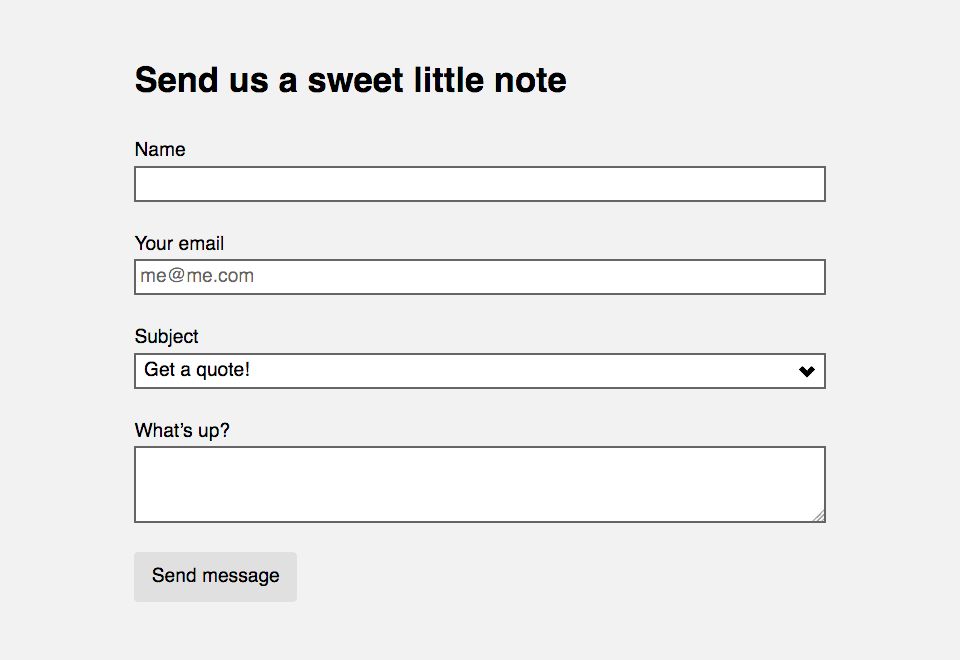
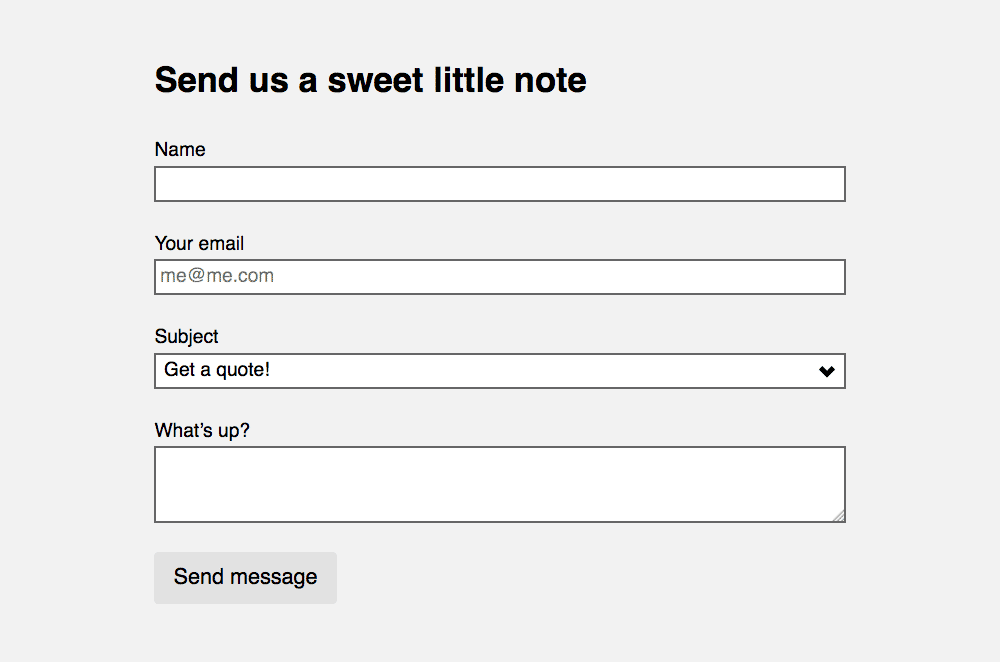
Update the contact form lesson

diff --git a/contact-form.md b/contact-form.md
@@ -3,6 +3,9 @@ layout: lesson
 title: "Contact form"
 desc: "Create a functional website contact form using Formspree as the message sender."
 
+markbot_submit: true
+hide_show_for_marks: true
+
 extra_tutorials:
   - title: "Forms slide deck"
     url: "/courses/web-dev-2/forms/"
@@ -15,27 +18,24 @@ extra_tutorials:
 goal:
   image: goal.png
   before: |
-    We’re going to look at how to make a function contact form. With only HTML, and no backend server, it would be impossible to actually send messages—but there are some services that’ll help us out. We’ll use [Formspree](https://formspree.io/) to help make our contact form messages send.
+    We’re going to look at how to make a functional contact form. With only HTML, and no backend server, it would be impossible to actually send messages—but there are some services that’ll help us out. We’ll use [Formspree](https://formspree.io/) to help make our contact form messages send.
   notes:
     - label: "Type it, type it real good"
       text: "Remember the purpose of this lesson is to type the code out yourself—build up that muscle memory in your fingers!"
+
+fork:
+  url: "https://github.com/acgd-webdev-2/contact-form"
 
 steps:
   - title: "Project setup"
     before: |
       The form isn’t going to work at all without running on a web server—the quickest way to get the form onto a web server is to use GitHub.
-
-      ### [Fork this repo.](https://github.com/acgd-webdev-2/contact-form/fork)
-
-      **Make sure you clone it to your computer.**
     folders:
       - label: "contact-form"
         type: folder
       - label: "css"
         type: folder
         indent: 1
-      - label: "grid.css"
-        indent: 2
       - label: "main.css"
         indent: 2
       - label: "modules.css"
@@ -64,11 +64,11 @@ steps:
             <form>
               <div>
                 <label for="name">Name</label>
-                <input id="name">
+                <input id="name" required>
               </div>
               <div>
                 <label for="email">Your email</label>
-                <input id="email" type="email" placeholder="me@me.com">
+                <input id="email" type="email" placeholder="me@me.com" required>
               </div>
               <div>
                 <label for="subject">Subject</label>
@@ -80,7 +80,7 @@ steps:
               </div>
               <div>
                 <label for="details">What’s up?</label>
-                <textarea id="details"></textarea>
+                <textarea id="details" required></textarea>
               </div>
               <div>
                 <button type="submit">Send message</button>
@@ -109,7 +109,7 @@ steps:
         text: |
           The `placeholder=""` attribute allows us to put an example into the `<input>` field.
 
-          It should never be used to replace a `<label>`!
+          **It should never be used to replace a `<label>`!**
 
           Also notice the `type="email"` attribute—this helps the browser validate the allowed information in the field.
       - num: "20-24"
@@ -124,7 +124,11 @@ steps:
         text: |
           A `<button>` tag is used to submit the form’s information. It cannot link to another page.
 
-          Without the `type="submit"~ attribute the button won’t actually submit the form—it’ll require JavaScript to be functional.
+          Without the `type="submit"` attribute the button won’t actually submit the form—it’ll require JavaScript to be functional.
+    notes:
+      - label: 'Important'
+        text: |
+          Notice that a few of the form fields have the `required` attribute—it’s best practice that at least one field in a form is required.
     after: |
       After writing out that HTML, this is what we should see:
 
@@ -134,16 +138,13 @@ steps:
 
   - title: "Add Gridifier, Typografier & Modulifier"
     before: |
-      The default look of forms is pretty abysmal—Modulifier has some slightly nicer form defaults, do let’s add that code into your website.
+      The default look of forms is pretty abysmal—Modulifier has some slightly nicer form defaults, so let’s add that code into your website.
     folders:
       - label: "contact-form"
         type: folder
       - label: "css"
         type: folder
         indent: 1
-      - label: "grid.css"
-        indent: 2
-        notes: "Get the code and paste it"
       - label: "main.css"
         indent: 2
         fade: true
@@ -159,11 +160,12 @@ steps:
     after: |
       *The web dev tools CSS files need to be populated:*
 
-      - Go to [Modulifier](http://modulifier.web-dev.tools/) and copy the default CSS into `modules.css`
-      - Go to [Gridifier](http://gridifier.web-dev.tools/) and copy the default CSS into `grid.css`
+      - Go to [Modulifier](http://modulifier.web-dev.tools/) and copy the CSS into `modules.css`—**make sure to press “Select all”**
       - Go to [Typografier](http://typografier.web-dev.tools/) and copy the default CSS into `type.css`
 
-      With the web dev tools in place, it looks better:
+      *We’re not using a grid for this lesson so it doesn’t need to be included.*
+
+      With the Web Dev Tools in place, it looks better:
 
       ![](web-dev-tools.png)
 
@@ -186,11 +188,11 @@ steps:
             <form class="push-0">
               <div class="push">
                 <label for="name">Name</label>
-                <input id="name">
+                <input id="name" required>
               </div>
               <div class="push">
                 <label for="email">Your email</label>
-                <input id="email" type="email" placeholder="me@me.com">
+                <input id="email" type="email" placeholder="me@me.com" required>
               </div>
               <div class="push">
                 <label for="subject">Subject</label>
@@ -202,10 +204,10 @@ steps:
               </div>
               <div class="push">
                 <label for="details">What’s up?</label>
-                <textarea id="details"></textarea>
+                <textarea id="details" required></textarea>
               </div>
               <div>
-                <button class="btn btn-light" type="submit">Send message</button>
+                <button class="btn btn-light mega" type="submit">Send message</button>
               </div>
             </form>
           </div>
@@ -236,6 +238,8 @@ steps:
       - num: 31
         text: |
           Add the `.btn` and `.btn-light` classes to the button to make it look better than the default styles.
+
+          And make it a little larger with `.mega`
     after: |
       And now the form should look good—like this:
 
@@ -245,7 +249,7 @@ steps:
     before: |
       Now that our form looks good we’re going to hook it into [Formspree](https://formspree.io/) so that our messages actually send.
 
-      With HTML only our forms don’t do anything. We can do some processing with JavaScript but without a backend server we can’t send emails. So Formspree is going to be our backend server.
+      With HTML only, our forms don’t do anything. We can do some processing with JavaScript but without a backend server we can’t send emails. So Formspree is going to be our backend server.
     code_lang: "html"
     code_file: "index.html"
     code: |
@@ -260,11 +264,11 @@ steps:
             <form class="push-0" method="POST" action="https://formspree.io/bradlet@algonquincollege.com">
               <div class="push">
                 <label for="name">Name</label>
-                <input id="name" name="name">
+                <input id="name" name="name" required>
               </div>
               <div class="push">
                 <label for="email">Your email</label>
-                <input id="email" type="email" placeholder="me@me.com" name="email">
+                <input id="email" type="email" placeholder="me@me.com" name="email" required>
               </div>
               <div class="push">
                 <label for="subject">Subject</label>
@@ -276,10 +280,10 @@ steps:
               </div>
               <div class="push">
                 <label for="details">What’s up?</label>
-                <textarea id="details" name="message"></textarea>
+                <textarea id="details" name="message" required></textarea>
               </div>
               <div>
-                <button class="btn btn-light" type="submit">Send message</button>
+                <button class="btn btn-light mega" type="submit">Send message</button>
               </div>
             </form>
           </div>
@@ -297,7 +301,7 @@ steps:
           The `<form>` tag gets two new attributes—as shown in the [Formspree documentation](https://formspree.io/).
 
           - `method` — `POST`, tells the browser how to send the information to the server.
-          - `action` — The URL to the server the information should be sent—make sure to change it to your email address!
+          - `action` — The URL to the server the information should be sent—**make sure to change it to your email address!**
       - num: 12
         text: |
           Every field in the form now gets a `name=""` attribute. It doesn’t really matter what the `name` is but a few of them are specialized:
@@ -309,6 +313,8 @@ steps:
       - num: 16
       - num: 20
       - num: 28
+    after: |
+      **Don’t forget to change the email address to your email address!**
 
   - title: "Commit, sync, test"
     before: |

diff --git a/week-10.md b/week-10.md
@@ -26,7 +26,6 @@ tasks:
     url: contact-form
     type: lesson
     submit: code
-    disabled: true
   - title: "Registration form"
     url: "https://github.com/acgd-webdev-2/registration-form"
     disabled: true
